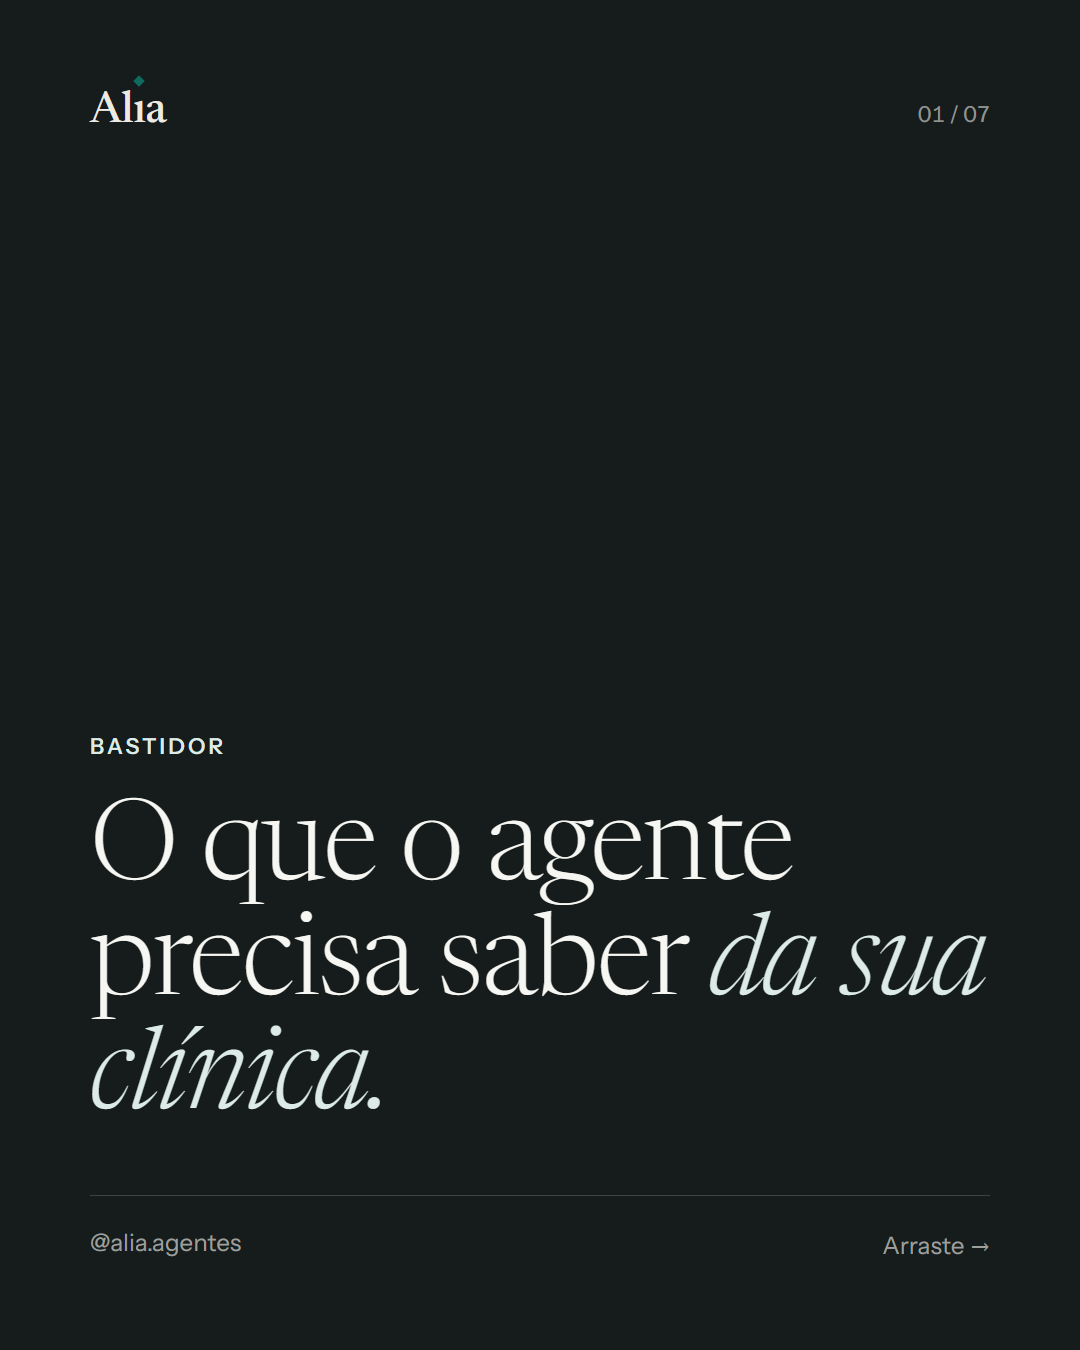
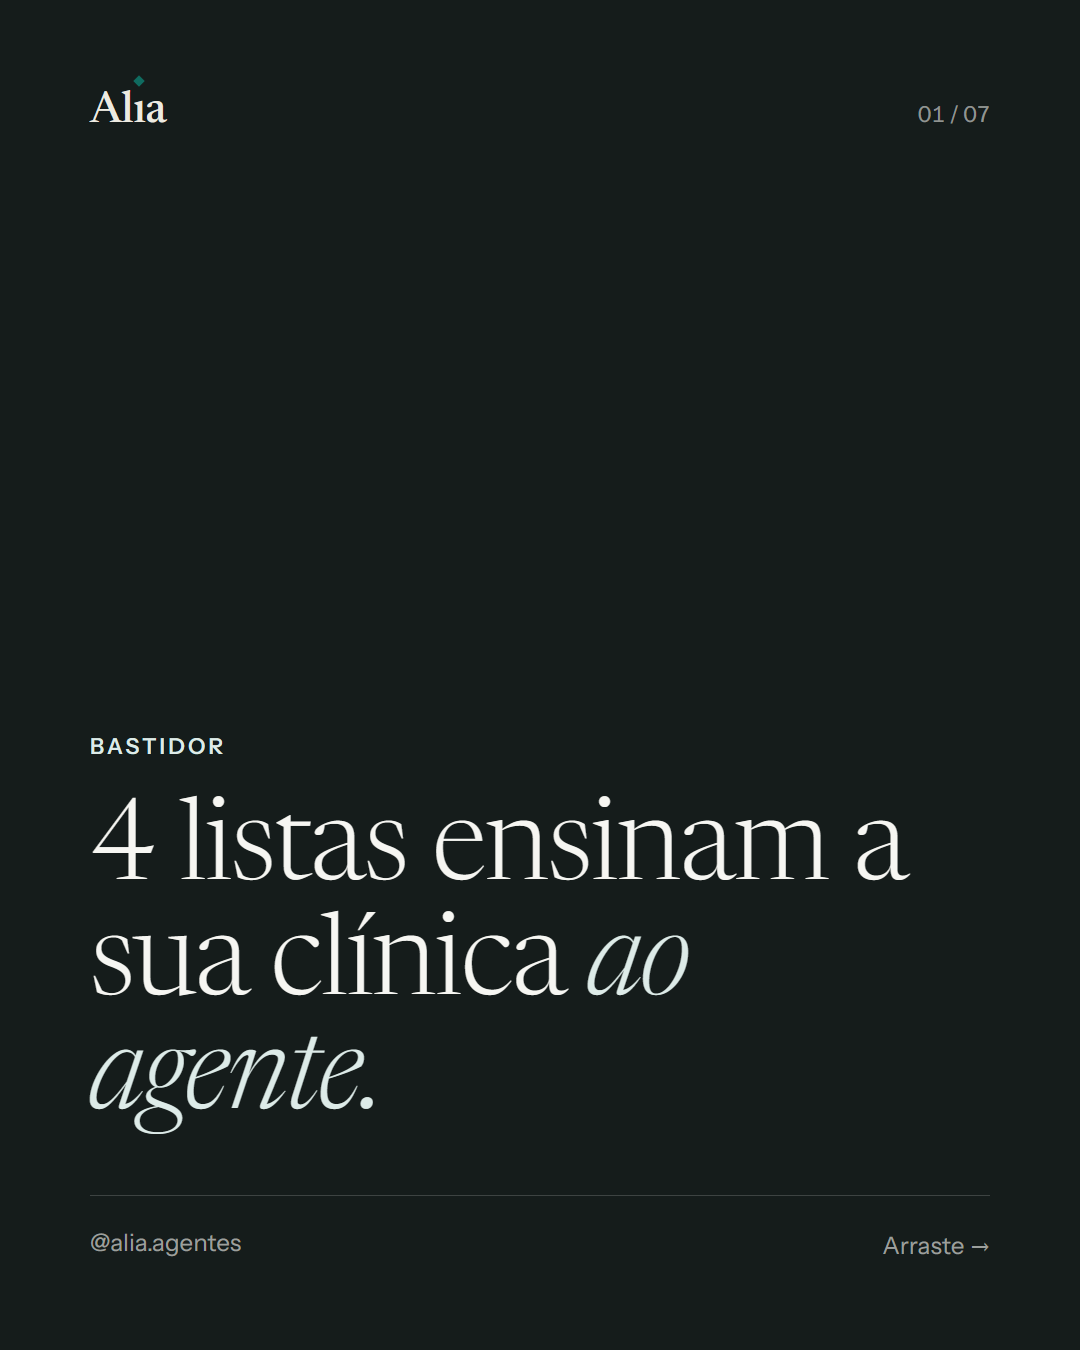
Carrosseis 27 e 31 com as regras novas (capa com numero, slide salvavel)

Changed region(s): [[0.0917, 0.5911, 0.7639, 0.84], [0.7944, 0.6844, 0.9167, 0.7467], [0.7944, 0.5911, 0.8556, 0.6533]]

diff --git a/fila/2026-10-27-inventar-preco/legenda.md b/fila/2026-10-27-inventar-preco/legenda.md
@@ -1,9 +1,9 @@
-"E se a IA inventar um preço?"
+1 teste mostra se uma IA de atendimento inventa preço.
 
-É a pergunta que todo dono de clínica faz, e está certo em fazer. Um valor errado no WhatsApp vira paciente frustrada e equipe se explicando.
+Peça o preço de um procedimento que não está na lista da clínica. Se ela responder com um número, inventou. E a sua paciente vai cobrar esse número.
 
-Os agentes da Alia respondem a partir da lista da sua clínica: procedimentos, valores e condições, do jeito que você escreveu. Antes de cada mensagem sair, um filtro confere se o que ele vai prometer está na sua base. Se não está, a frase não sai.
+O agente da Alia responde a partir da lista da sua clínica. Antes de cada mensagem sair, um filtro confere se o que ele vai prometer está escrito na base. Se não está, a frase não sai: ele diz que o valor depende de avaliação e oferece um horário.
 
-Quer ver o agente respondendo com os valores da sua clínica? Link na bio.
+Salve o teste em 3 perguntas para usar antes de contratar qualquer IA. Quer fazer o teste com os valores da sua clínica? Link na bio.
 
 #clinicaestetica #gestaodeclinicas #atendimentoaopaciente #agentesdeia

diff --git a/fila/2026-10-31-o-que-o-agente-precisa/legenda.md b/fila/2026-10-31-o-que-o-agente-precisa/legenda.md
@@ -1,13 +1,12 @@
-O que um agente de IA precisa saber para atender a sua clínica no WhatsApp?
+4 listas ensinam a sua clínica a um agente de IA. E a sua recepção já tem todas:
 
-Menos do que parece, e tudo que a sua recepção já sabe:
 1. Procedimentos e valores
 2. Agenda e horários
 3. Regras da casa (sinal por Pix, remarcação, avaliação)
 4. O jeito de falar da clínica
 
-Com isso, ele responde como a sua equipe responderia. E o que não está nessa lista, ele não inventa.
+Com isso, o agente responde no WhatsApp como a sua equipe responderia. E o que não está nessas listas, ele não inventa.
 
-Salve este post para quando for pensar em automatizar o atendimento. Quer ver como ficaria com os procedimentos da sua clínica? Link na bio.
+Salve este post e separe as 4 listas antes de conversar com qualquer fornecedor de IA. Quer ver como ficaria com os procedimentos da sua clínica? Link na bio.
 
 #clinicaestetica #gestaodeclinicas #atendimentoaopaciente #agentesdeia
